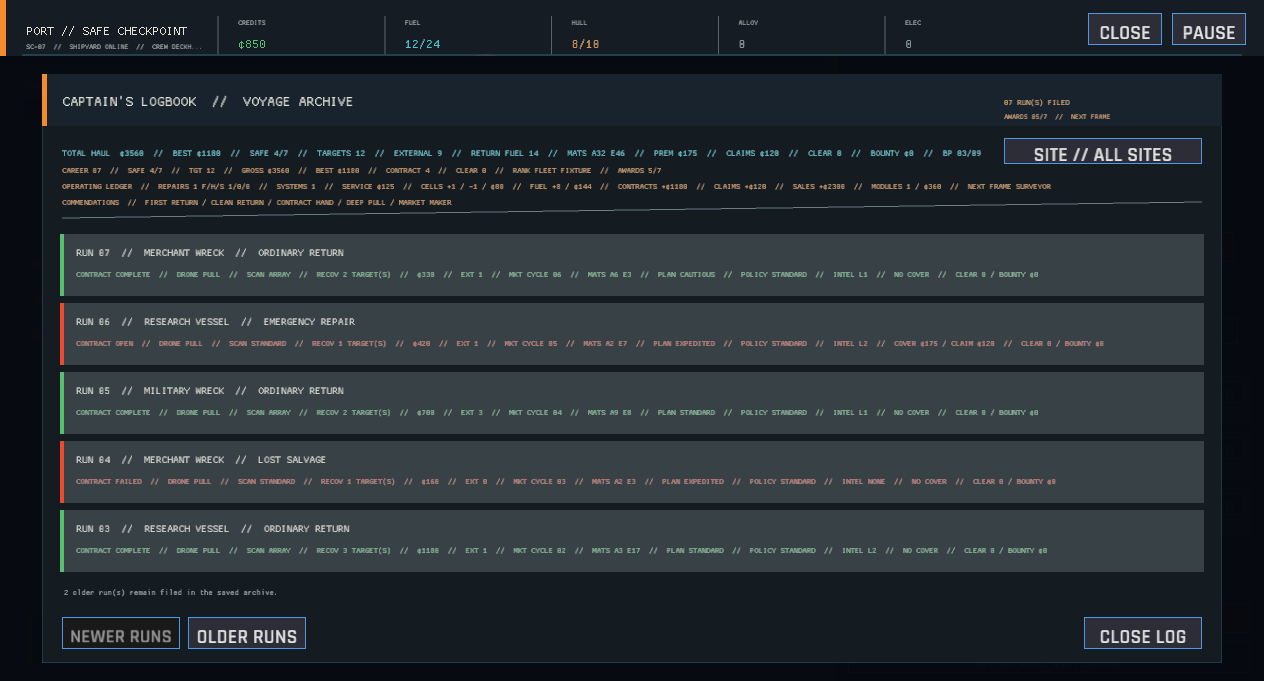
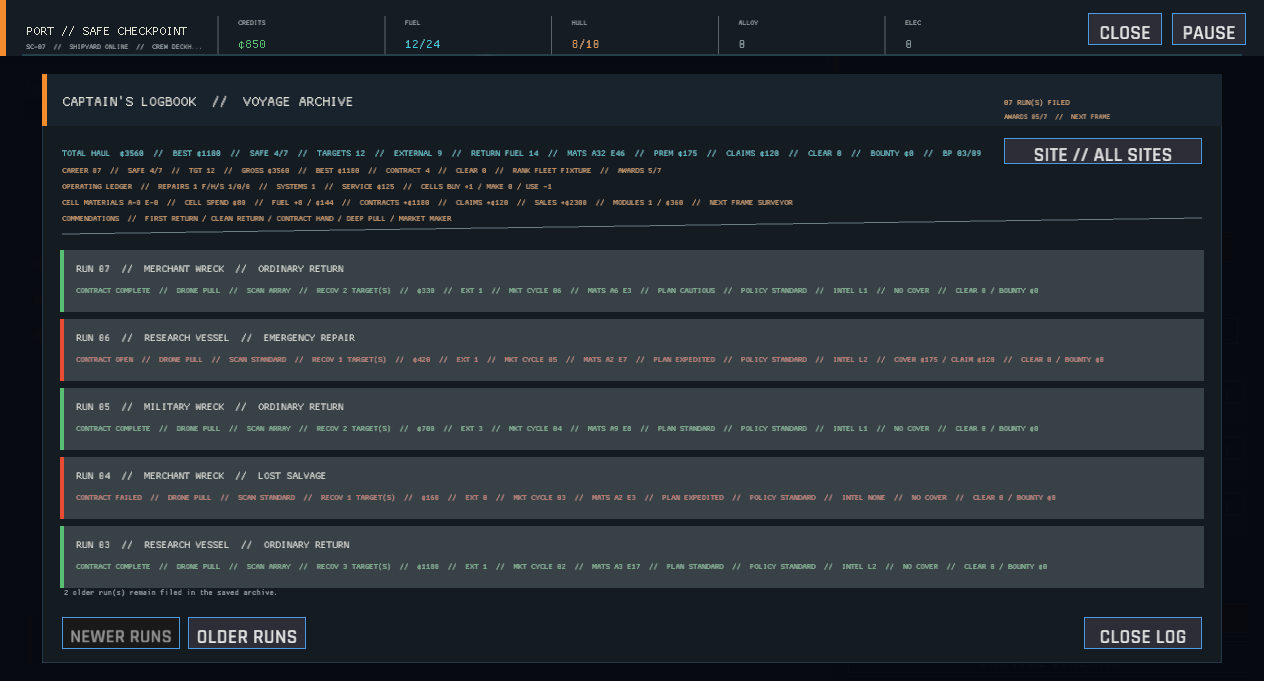
The archive gives every operating figure room to breathe (ledger readability)
The career ledger is split into operational and resource rows so fabrication counts, material burn, and cell spend stay readable in the voyage archive. The archive capture was refreshed at the same verification path.

Changed region(s): [[0.0309, 0.2467, 0.9565, 0.8634]]

diff --git a/src/ui/voyage_archive.rs b/src/ui/voyage_archive.rs
@@ -129,17 +129,25 @@ pub fn draw_voyage_archive(ctx: &UiContext<'_>, actions: &mut Vec<UiAction>) {
         10.0,
         visual_theme::amber(),
     );
+    let (operations, resources) = career_operations_summary(&ctx.session.career);
     draw_text(
-        &career_operations_summary(&ctx.session.career),
+        &operations,
         frame.x + 20.0,
         frame.y + 115.0,
         10.0,
         visual_theme::amber(),
     );
     draw_text(
-        clipped(&career_awards_summary(&ctx.session.career), 150),
+        &resources,
         frame.x + 20.0,
         frame.y + 131.0,
+        10.0,
+        visual_theme::amber(),
+    );
+    draw_text(
+        clipped(&career_awards_summary(&ctx.session.career), 150),
+        frame.x + 20.0,
+        frame.y + 147.0,
         10.0,
         visual_theme::amber(),
     );
@@ -154,9 +162,9 @@ pub fn draw_voyage_archive(ctx: &UiContext<'_>, actions: &mut Vec<UiAction>) {
     }
     draw_line(
         frame.x + 20.0,
-        frame.y + 144.0,
+        frame.y + 160.0,
         frame.right() - 20.0,
-        frame.y + 128.0,
+        frame.y + 144.0,
         1.0,
         visual_theme::structure_light(),
     );
@@ -192,7 +200,7 @@ pub fn draw_voyage_archive(ctx: &UiContext<'_>, actions: &mut Vec<UiAction>) {
             visual_theme::text_dim(),
         );
     } else {
-        let row_top = frame.y + 160.0;
+        let row_top = frame.y + 176.0;
         let row_height = ((frame.h - 210.0) / ARCHIVE_PAGE_SIZE as f32).clamp(54.0, 62.0);
         let (page_offset, page_end) =
             archive_page(filtered_records.len(), ctx.voyage_archive_offset);
@@ -387,12 +395,12 @@ fn career_summary(stats: &CareerStats) -> String {
     )
 }
 
-fn career_operations_summary(stats: &CareerStats) -> String {
+fn career_operations_summary(stats: &CareerStats) -> (String, String) {
     let next = stats
         .next_award()
         .map_or("ALL COMMENDATIONS", CareerAward::label);
-    format!(
-        "OPERATING LEDGER  //  REPAIRS {} F/H/S {}/{}/{}  //  SYSTEMS {}  //  SERVICE ¢{}  //  CELLS BUY +{} / MAKE {} A-{} E-{} / USE -{} / ¢{}  //  FUEL +{} / ¢{}  //  CONTRACTS +¢{}  //  CLAIMS +¢{}  //  SALES +¢{}  //  MODULES {} / ¢{}  //  NEXT {}",
+    let operations = format!(
+        "OPERATING LEDGER  //  REPAIRS {} F/H/S {}/{}/{}  //  SYSTEMS {}  //  SERVICE ¢{}  //  CELLS BUY +{} / MAKE {} / USE -{}",
         stats.repairs_completed,
         stats.full_overhauls,
         stats.hull_patches,
@@ -401,9 +409,12 @@ fn career_operations_summary(stats: &CareerStats) -> String {
         stats.repair_spend,
         stats.field_power_cells_bought,
         stats.field_power_cells_fabricated,
+        stats.field_power_cells_used,
+    );
+    let resources = format!(
+        "CELL MATERIALS A-{} E-{}  //  CELL SPEND ¢{}  //  FUEL +{} / ¢{}  //  CONTRACTS +¢{}  //  CLAIMS +¢{}  //  SALES +¢{}  //  MODULES {} / ¢{}  //  NEXT {}",
         stats.field_power_alloy_used,
         stats.field_power_electronics_used,
-        stats.field_power_cells_used,
         stats.field_power_spend,
         stats.fuel_units_bought,
         stats.refuel_spend,
@@ -413,7 +424,8 @@ fn career_operations_summary(stats: &CareerStats) -> String {
         stats.module_changes,
         stats.module_spend,
         next,
-    )
+    );
+    (operations, resources)
 }
 
 fn career_awards_summary(stats: &CareerStats) -> String {

diff --git a/src/ui/voyage_archive/tests.rs b/src/ui/voyage_archive/tests.rs
@@ -124,7 +124,10 @@ fn career_summary_names_the_lifetime_dossier() {
     );
     assert_eq!(
         career_operations_summary(&stats),
-        "OPERATING LEDGER  //  REPAIRS 2 F/H/S 2/0/0  //  SYSTEMS 2  //  SERVICE ¢195  //  CELLS BUY +0 / MAKE 0 A-0 E-0 / USE -0 / ¢0  //  FUEL +12 / ¢216  //  CONTRACTS +¢180  //  CLAIMS +¢120  //  SALES +¢240  //  MODULES 1 / ¢360  //  NEXT MARKET MAKER"
+        (
+            "OPERATING LEDGER  //  REPAIRS 2 F/H/S 2/0/0  //  SYSTEMS 2  //  SERVICE ¢195  //  CELLS BUY +0 / MAKE 0 / USE -0".to_owned(),
+            "CELL MATERIALS A-0 E-0  //  CELL SPEND ¢0  //  FUEL +12 / ¢216  //  CONTRACTS +¢180  //  CLAIMS +¢120  //  SALES +¢240  //  MODULES 1 / ¢360  //  NEXT MARKET MAKER".to_owned(),
+        )
     );
     assert_eq!(
         career_awards_summary(&stats),
